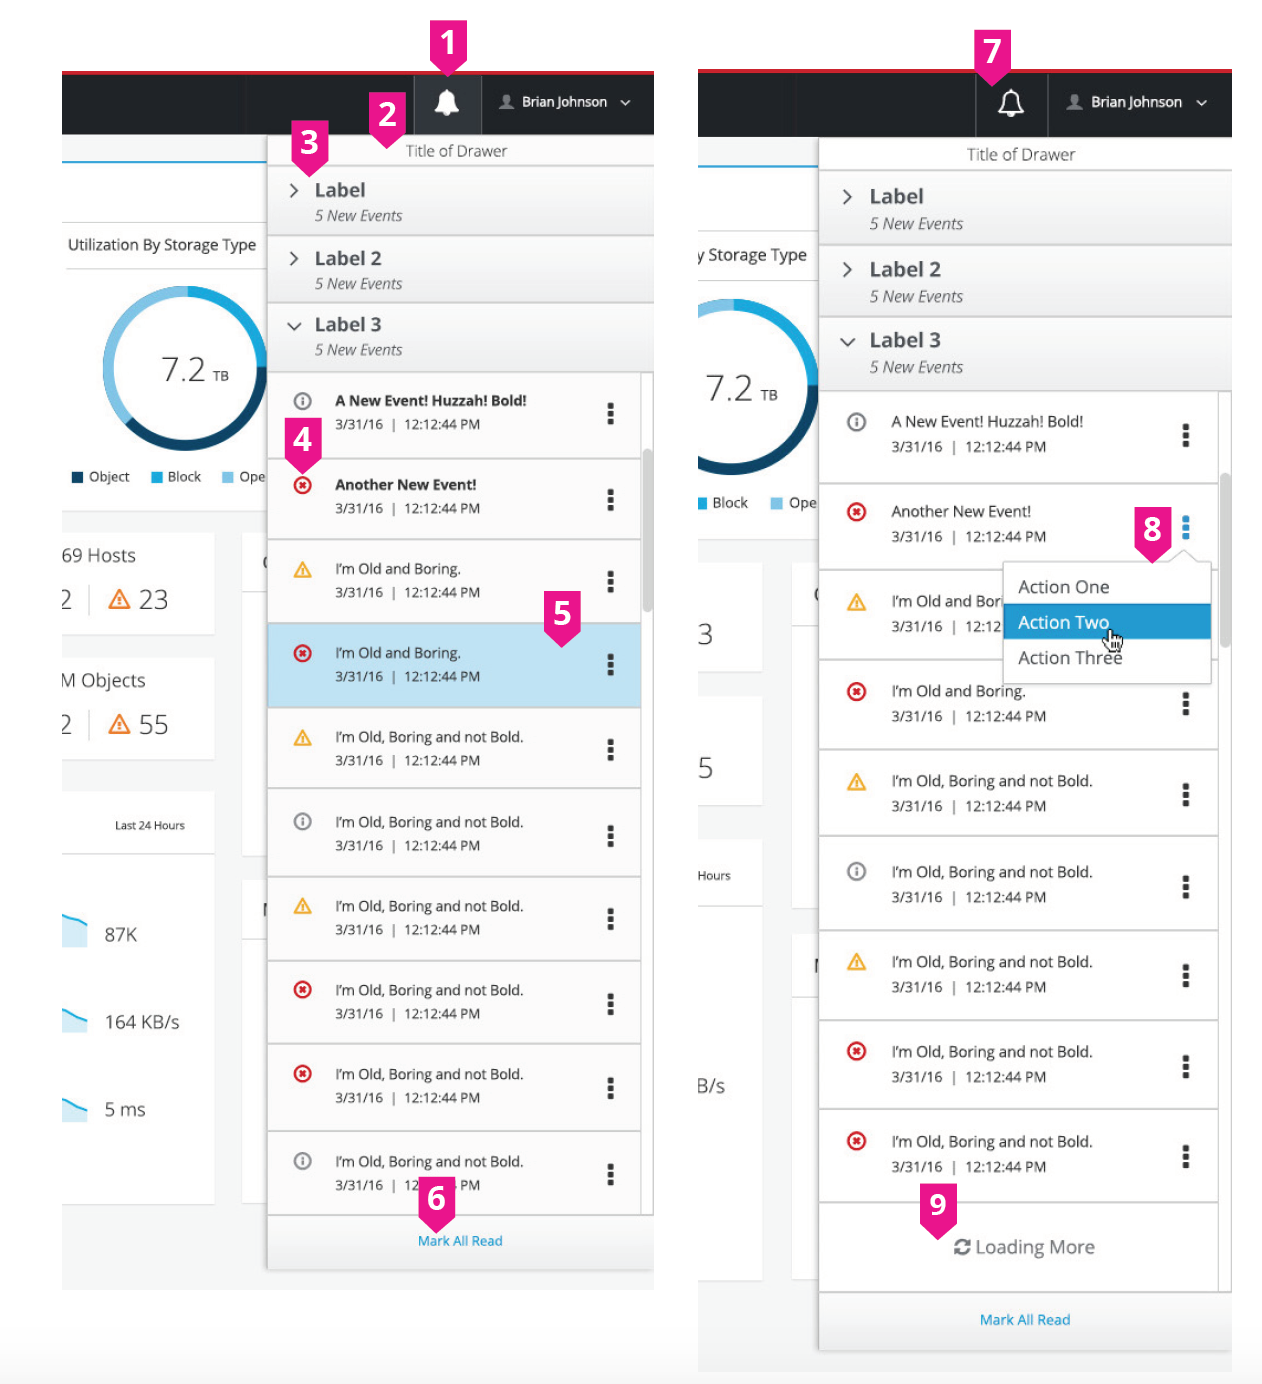
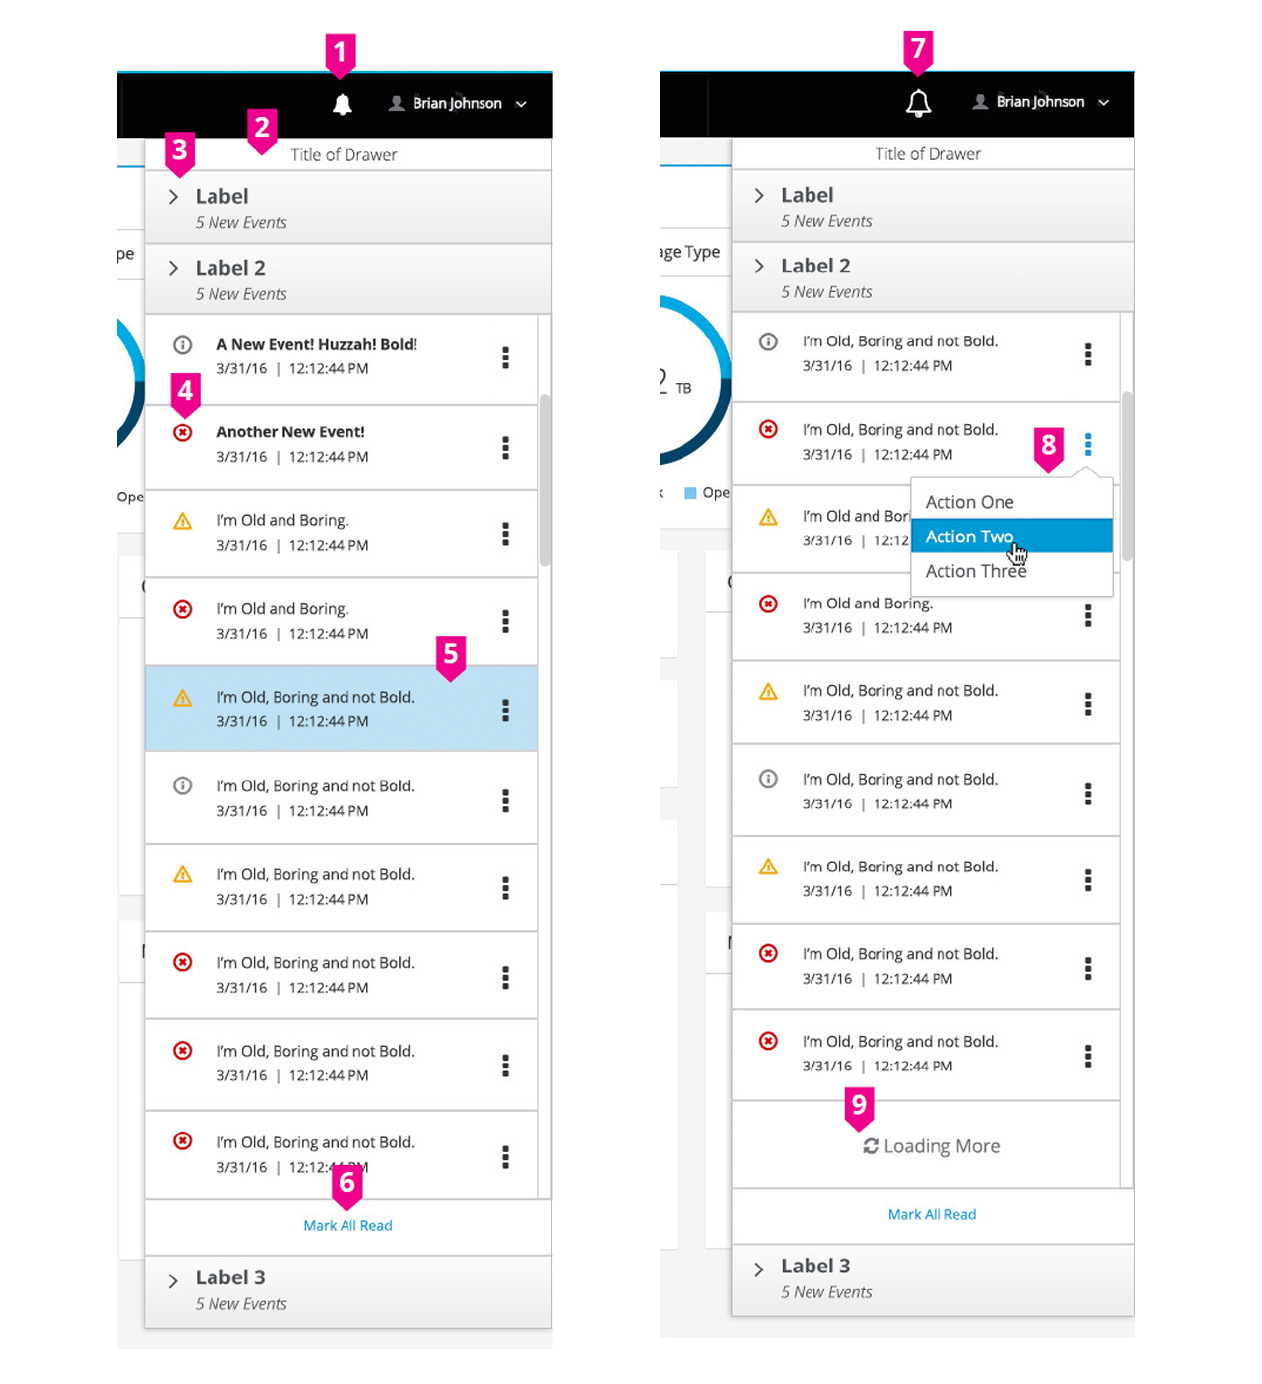
Image Update
Image Update to PatternFly Masthead

diff --git a/source/pattern-library/communication/notification-drawer/index.md b/source/pattern-library/communication/notification-drawer/index.md
@@ -10,9 +10,13 @@ codetab: false
     system that is viewable without having to navigate to another area of the application. Upon login it offers initial
     notifications for what has changed in the form of dismissible Toast Notifications and a permanent interactive icon
     in the header bar. It is hidden or revealed at the user’s request.</p>
-    <h2 id="example-overview-1">Example</h2>
+    <h2 id="example-overview-1">Vertical Navigation Example</h2>
     <div class="example-pf">
-      <img src="{{site.baseurl}}assets/img/Patternfly_ToastNotificationTray_Hover.jpg" alt="notification-drawer-example"/>
+      <img src="{{site.baseurl}}assets/img/Patternfly_ToastNotification_Tray_06_11_2016.jpg" alt="notification-drawer-example"/>
+    </div>  
+    <h2 id="example-overview-1">Horizontal Navigation Example</h2>
+    <div class="example-pf">
+      <img src="{{site.baseurl}}assets/img/Patternfly_ToastNotification_Tray_Horizontal.jpg" alt="notification drawer horizontal nav example"/>
     </div>
   </div>
   <div role="tabpanel" class="tab-pane" id="design">
